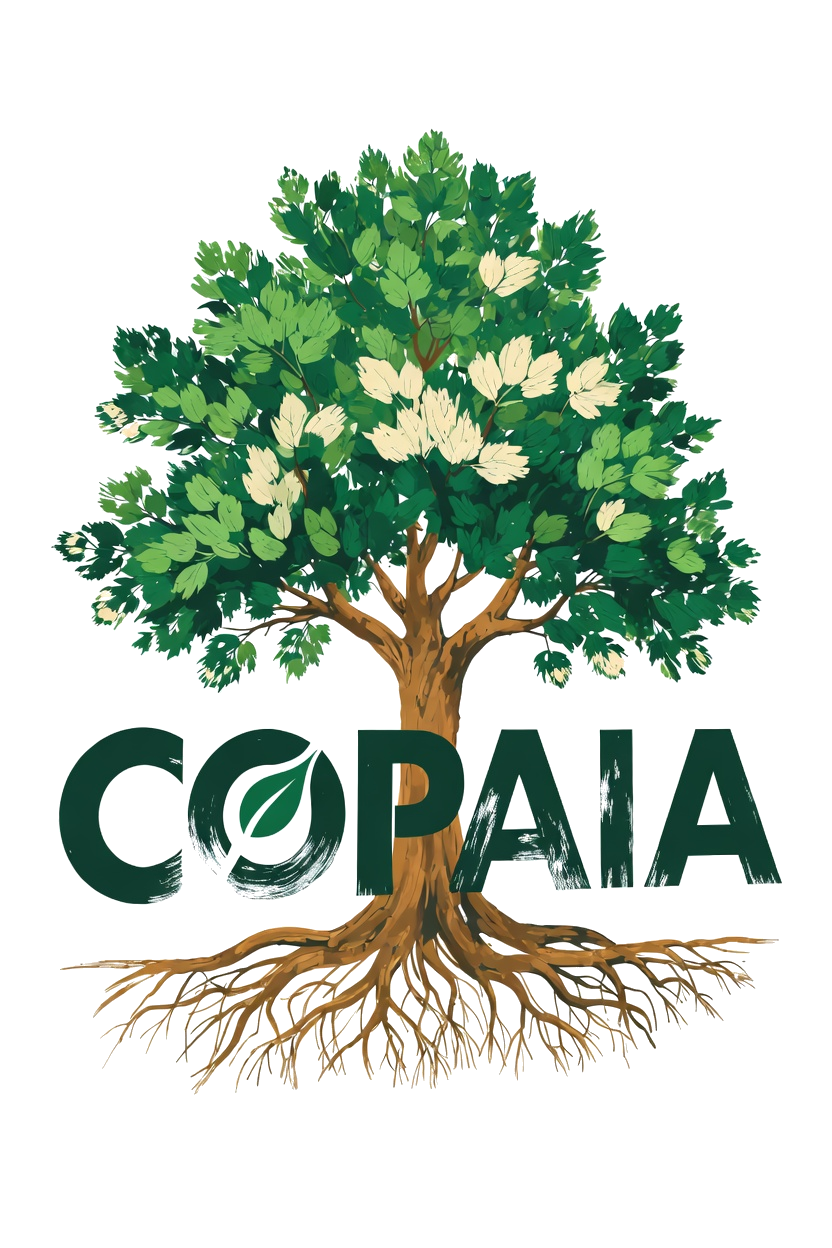
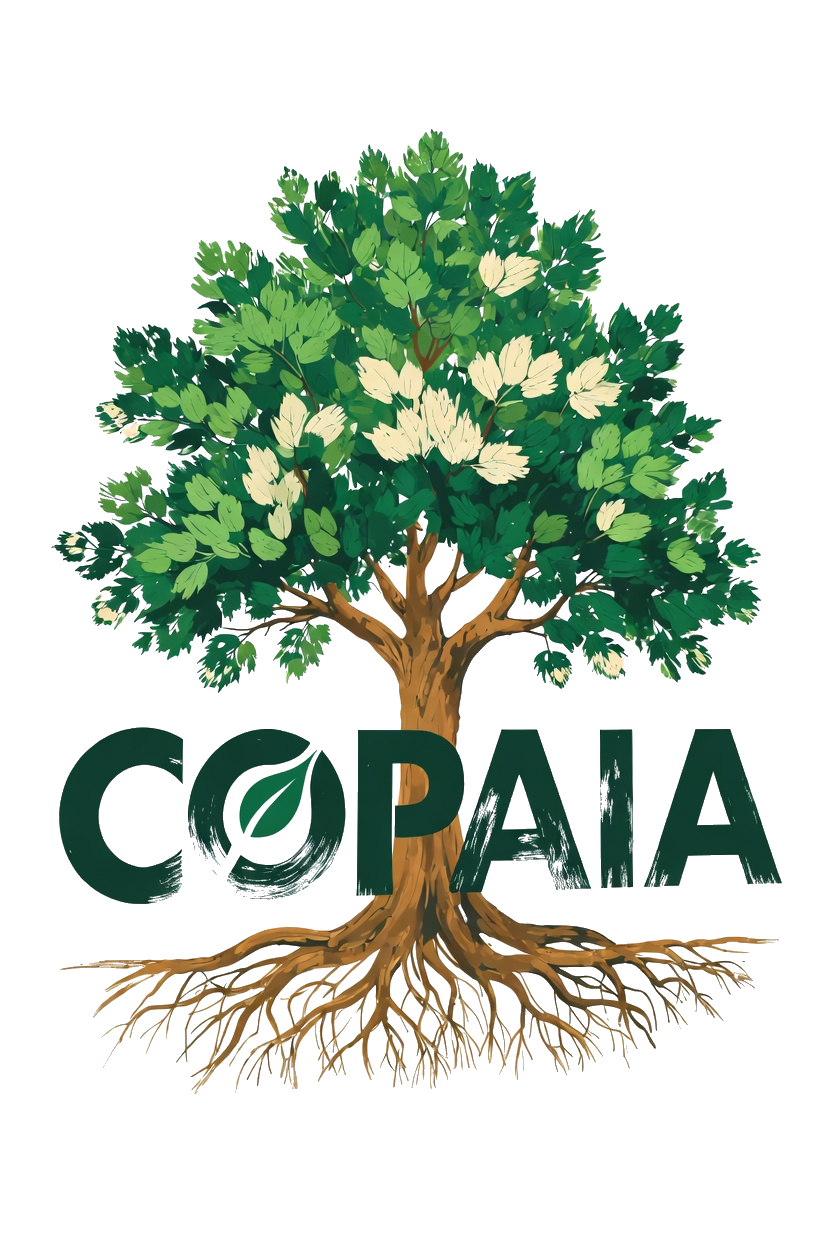
fix(brand): aggressive PNG white removal + unoptimized + blend-mode
Three-layer fix for the white rectangle around the hero logo in
dark mode:
1. PNG: re-processed with aggressive brightness+saturation threshold
   (11541 additional near-white pixels cleared)
2. Image: added unoptimized prop to bypass Next.js WebP conversion
   that was re-introducing white fringe around transparency edges
3. CSS: mix-blend-mode:multiply on .logo-halo container with
   isolation:auto !important to let the blend reach the parchment bg

Changed region(s): [[0.3438, 0.6875, 0.375, 0.7188]]

diff --git a/src/app/globals.css b/src/app/globals.css
@@ -206,12 +206,12 @@ html {
 /* The hero logo PNG may retain anti-aliased white fringe pixels from
    the original JPG→PNG color-key conversion. multiply blends white
    into parchment (white × parchment = parchment) so any residual
-   rectangle vanishes. Applied to .logo-halo itself (not the img
-   child) because .logo-halo has isolation:isolate which creates a
-   stacking context boundary — blend mode on the img would only
-   blend within that isolated context (against transparent). Putting
-   it on the container blends the whole group against the hero bg. */
+   rectangle vanishes. We also drop isolation:isolate to auto here —
+   the ::before halo is transparent in hero dark mode anyway, so the
+   isolation stacking context (which existed to contain blur) is not
+   needed. Without it, children inherit the multiply blend cleanly. */
 [data-theme="dark"] .hero-section .logo-halo {
+  isolation: auto !important;
   mix-blend-mode: multiply;
 }
 

diff --git a/src/components/sections/HeroMotion.tsx b/src/components/sections/HeroMotion.tsx
@@ -267,6 +267,7 @@ export function HeroMotion({
               width={500}
               height={750}
               priority
+              unoptimized
               className="h-72 md:h-[28rem] w-auto object-contain relative z-10 drop-shadow-[0_6px_18px_rgba(24,51,41,0.18)]"
             />
           </span>
